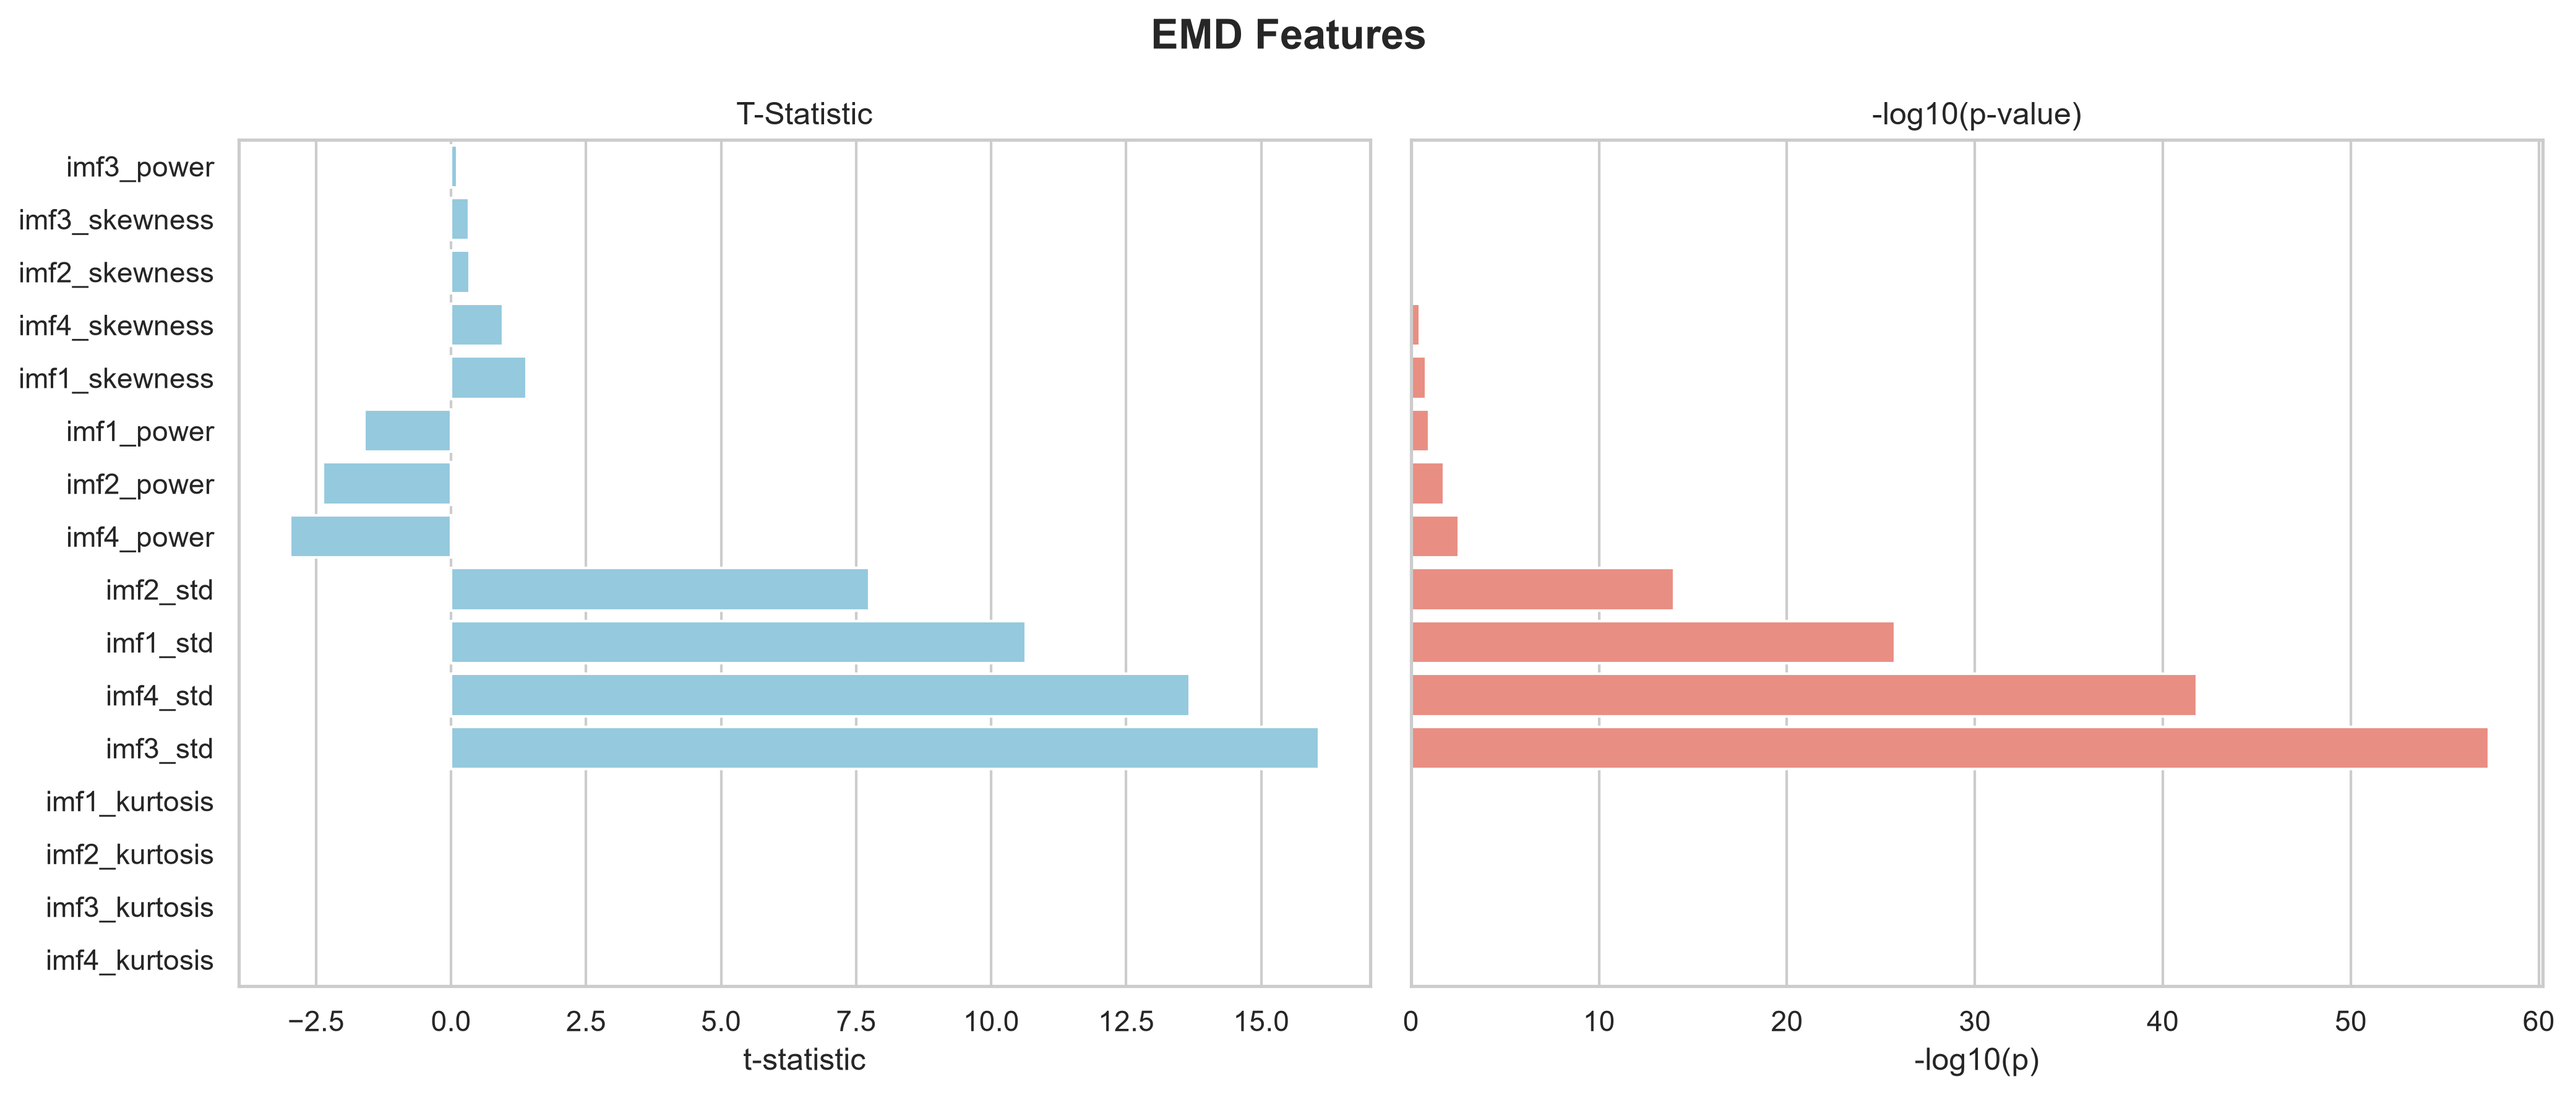
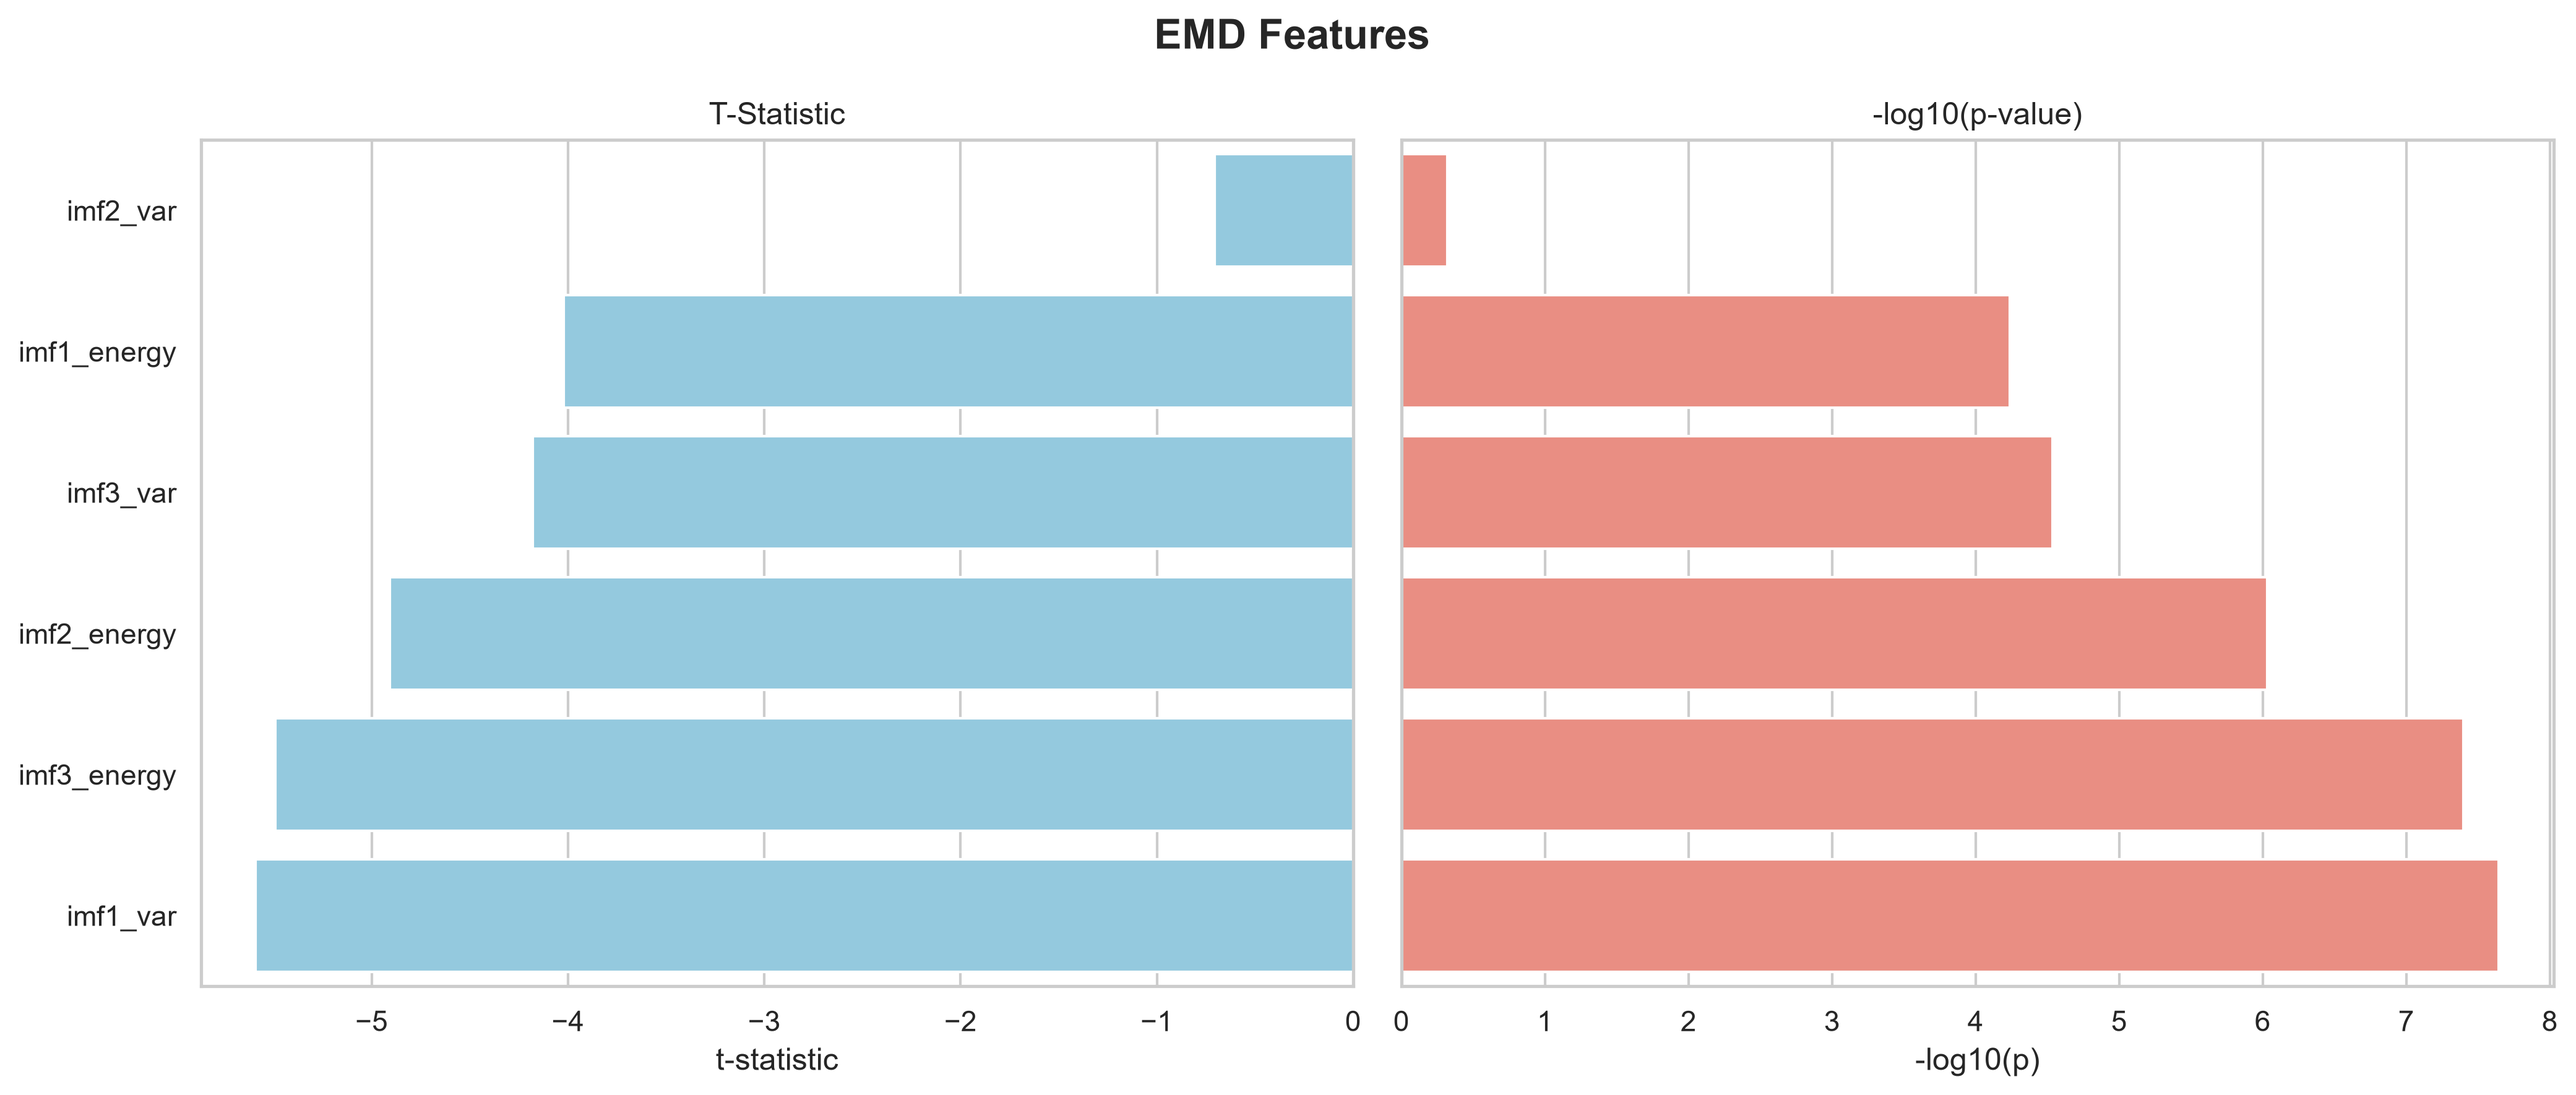
fix(legacy2.0): use legacy feature caches for t-test generation

diff --git a/legacy2.0/generate_ttest_figures.py b/legacy2.0/generate_ttest_figures.py
@@ -9,14 +9,16 @@ from pathlib import Path
 
 # Setup paths
 BASE_DIR = Path(__file__).resolve().parent
-FEATURES_DIR = BASE_DIR / "features"
 FIGURES_DIR = BASE_DIR / "figures"
 FIGURES_DIR.mkdir(exist_ok=True)
 
+# Point to legacy feature caches
+LEGACY_CACHE_DIR = BASE_DIR.parent / "study_results" / "feature_cache"
+
 PARADIGMS = {
-    'spectral_slope': 'Frequency Features',
-    'wavelet': 'Wavelet Features',
-    'emd': 'EMD Features'
+    'spectral_slope': ('Frequency Features', LEGACY_CACHE_DIR / "spectral_slope"),
+    'wavelet': ('Wavelet Features', LEGACY_CACHE_DIR / "legacy_wavelets"),
+    'emd': ('EMD Features', LEGACY_CACHE_DIR / "baselines" / "emd")
 }
 
 def compute_ttests(df):
@@ -51,13 +53,13 @@ def compute_ttests(df):
         
     return pd.DataFrame(results)
 
-def plot_paradigm(paradigm_key, paradigm_name):
+def plot_paradigm(paradigm_key, paradigm_name, paradigm_path):
     print(f"Processing {paradigm_name}...")
     
     # Load all CSVs for this paradigm
-    csv_files = glob.glob(str(FEATURES_DIR / paradigm_key / "patient_*.csv"))
+    csv_files = glob.glob(str(paradigm_path / "patient_*.csv"))
     if not csv_files:
-        print(f"No CSV files found for {paradigm_key}. Skipping.")
+        print(f"No CSV files found for {paradigm_key} at {paradigm_path}. Skipping.")
         return
         
     dfs = []
@@ -113,5 +115,5 @@ def plot_paradigm(paradigm_key, paradigm_name):
     print(f"Saved {out_path.name}")
 
 if __name__ == "__main__":
-    for key, name in PARADIGMS.items():
-        plot_paradigm(key, name)
+    for key, (name, path) in PARADIGMS.items():
+        plot_paradigm(key, name, path)
